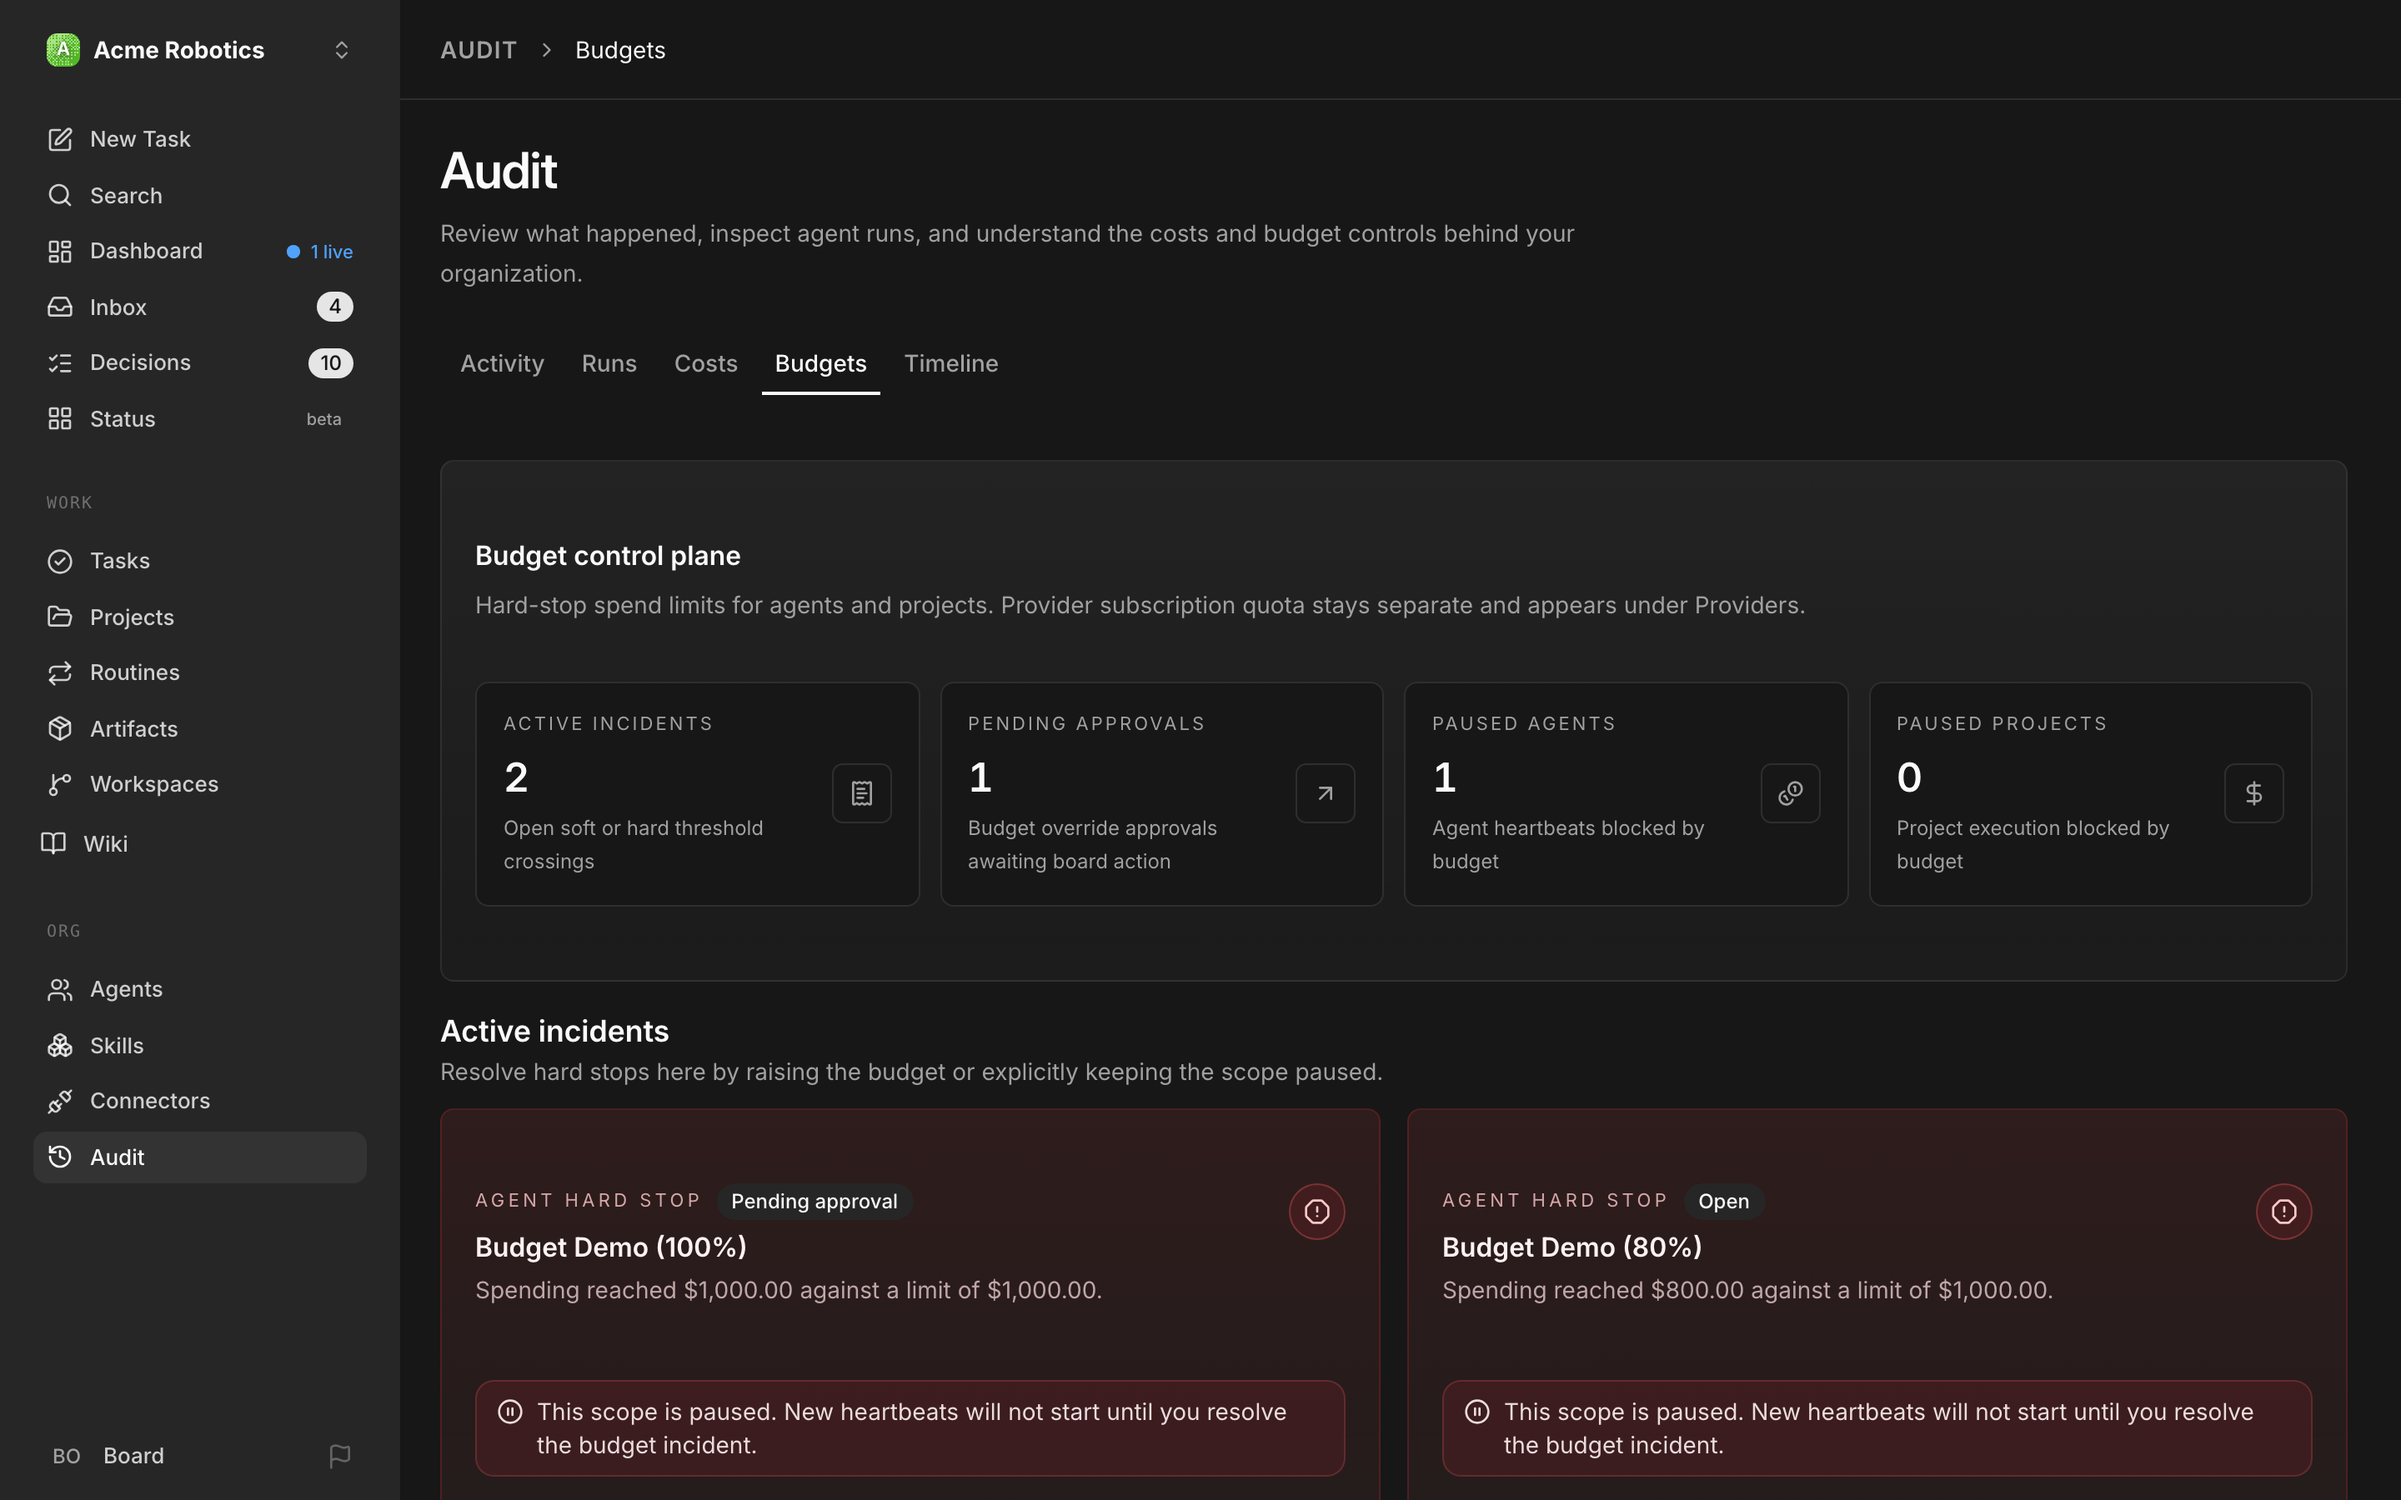
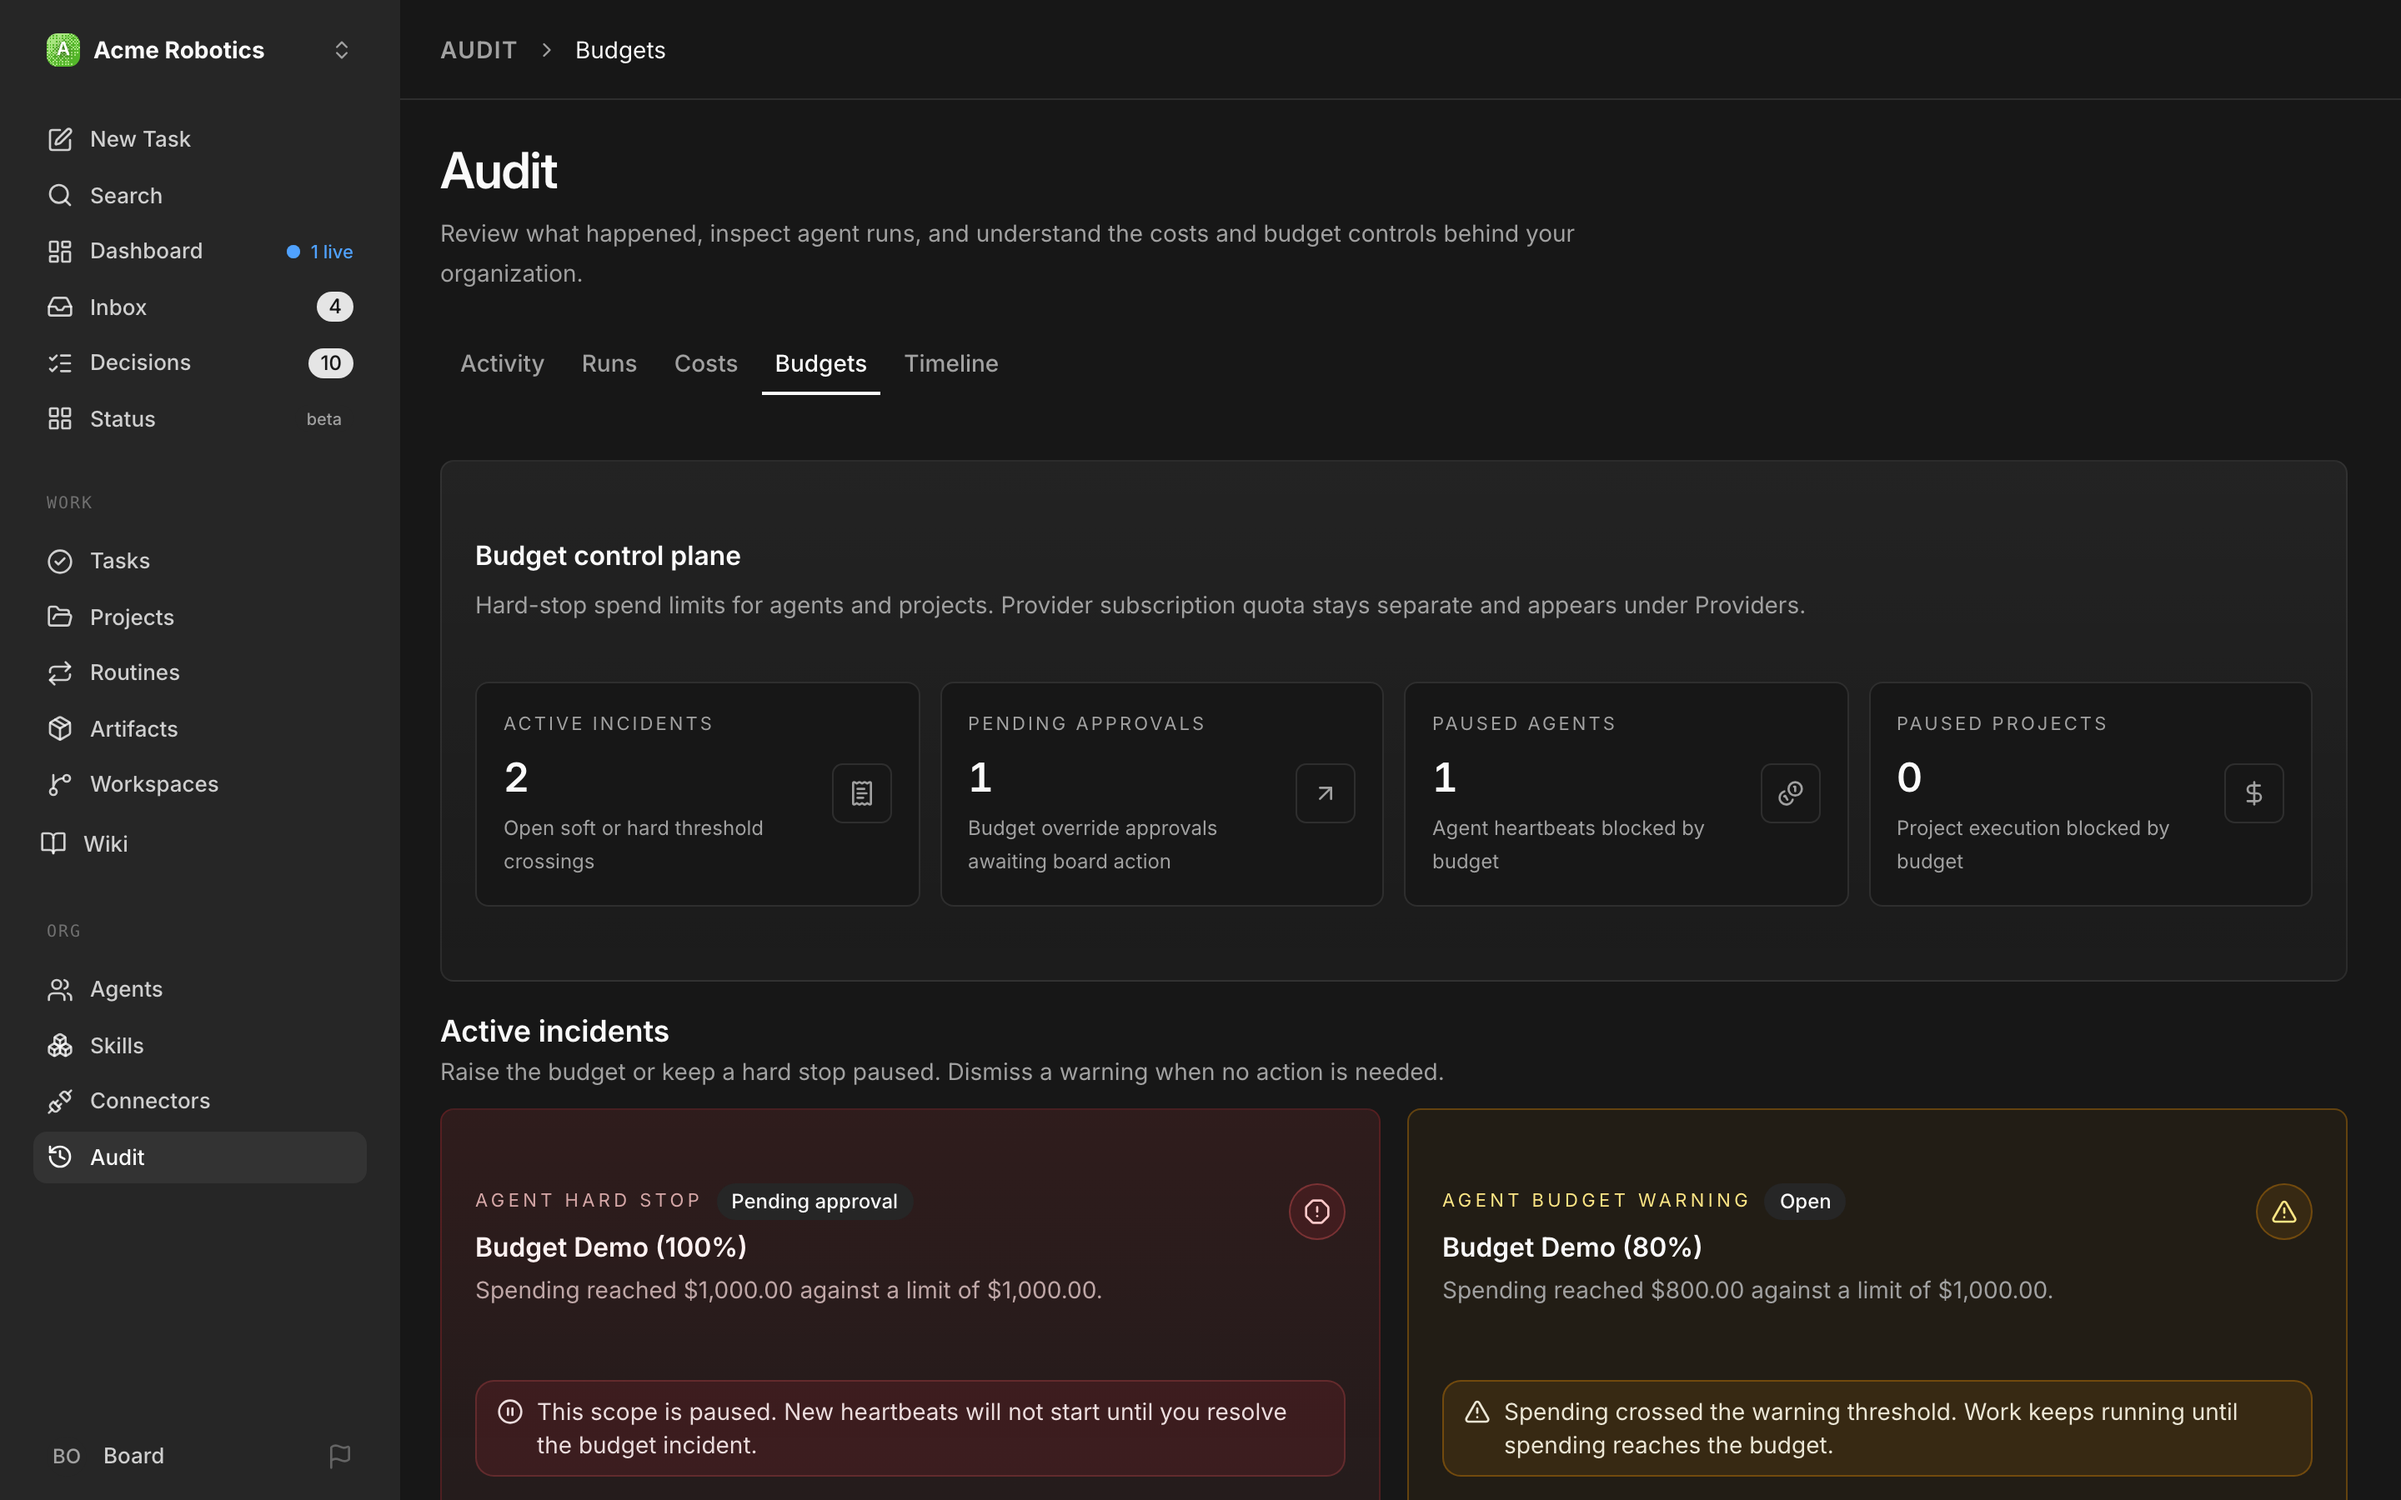
screenshots: retake budget shots with the corrected incident card
Recaptures the costs and budget screenshots from v2026.1012.0 with the
upstream incident-card fix (paperclipai/paperclip#16201) applied, so a
warning-threshold incident shows as a budget warning instead of a hard
stop. The budget guides say the shots show the corrected card and that
v2026.1012.0 itself still labels warnings as hard stops.

diff --git a/docs/how-to/set-monthly-budget.md b/docs/how-to/set-monthly-budget.md
@@ -80,7 +80,9 @@ At 80% (or whatever `warnPercent` you set) Paperclip records a **soft incident**
 
 ![Audit page on the Budgets tab, showing the Budget control plane card, active incidents, and budget policy cards](../user-guides/screenshots/light/costs/budgets.png)
 
-> **Heads-up:** in this release, every incident card is headed **… hard stop** and says *"This scope is paused"*, including the soft incident opened at the warning threshold. Check the policy card instead: a soft crossing shows a **Warning** badge and the agent keeps running. Only **Hard stop** or **Paused** means work has actually stopped.
+A warning shows as an amber **… budget warning** card with **Raise budget** and **Dismiss warning**. A hard stop shows as a red **… hard stop** card with **Raise budget & resume** and **Keep paused**.
+
+> **Heads-up:** in v2026.1012.0 itself, the warning card still uses the hard-stop design. It is headed **… hard stop** and says *"This scope is paused"*, but the agent keeps running. The screenshots show the corrected card from [the fix](https://github.com/paperclipai/paperclip/pull/16201), which ships in a later release. Until then, check the policy card: **Warning** means work continues, and only **Hard stop** or **Paused** means work has stopped.
 
 Paperclip does not push outbound webhooks today. If you want Slack or Discord pings on incidents, run a routine that diffs `GET /api/companies/{COMPANY_ID}/budgets/overview` against a cursor and posts to a webhook — the same shape as the approval notifier. See [Wire Slack/Discord notifications](./wire-slack-discord-notifications.md).
 

diff --git a/docs/guides/day-to-day/costs.md b/docs/guides/day-to-day/costs.md
@@ -252,7 +252,7 @@ $0 ─────────────────────── 80% ─
                           Warning        Auto-paused
 ```
 
-**At 80%:** Paperclip records a warning so you can intervene before the hard stop. The agent continues running. The incident card for this warning is still headed **… hard stop** and says the scope is paused; that wording is fixed in the card for every incident. Trust the policy card's **Warning** badge: the agent hasn't been paused.
+**At 80%:** Paperclip records a warning so you can intervene before the hard stop. The agent continues running. Its incident card is an amber **… budget warning** with **Raise budget** and **Dismiss warning**. In v2026.1012.0 itself, this card still shows the hard-stop design and says the scope is paused. The screenshots show the corrected card from [the fix](https://github.com/paperclipai/paperclip/pull/16201), which ships in a later release. Until then, trust the policy card's **Warning** badge: the agent hasn't been paused.
 
 **At 100%:** The agent is automatically paused. No further heartbeats are triggered. The agent stops all activity until either you increase its budget or the calendar month resets.
 
